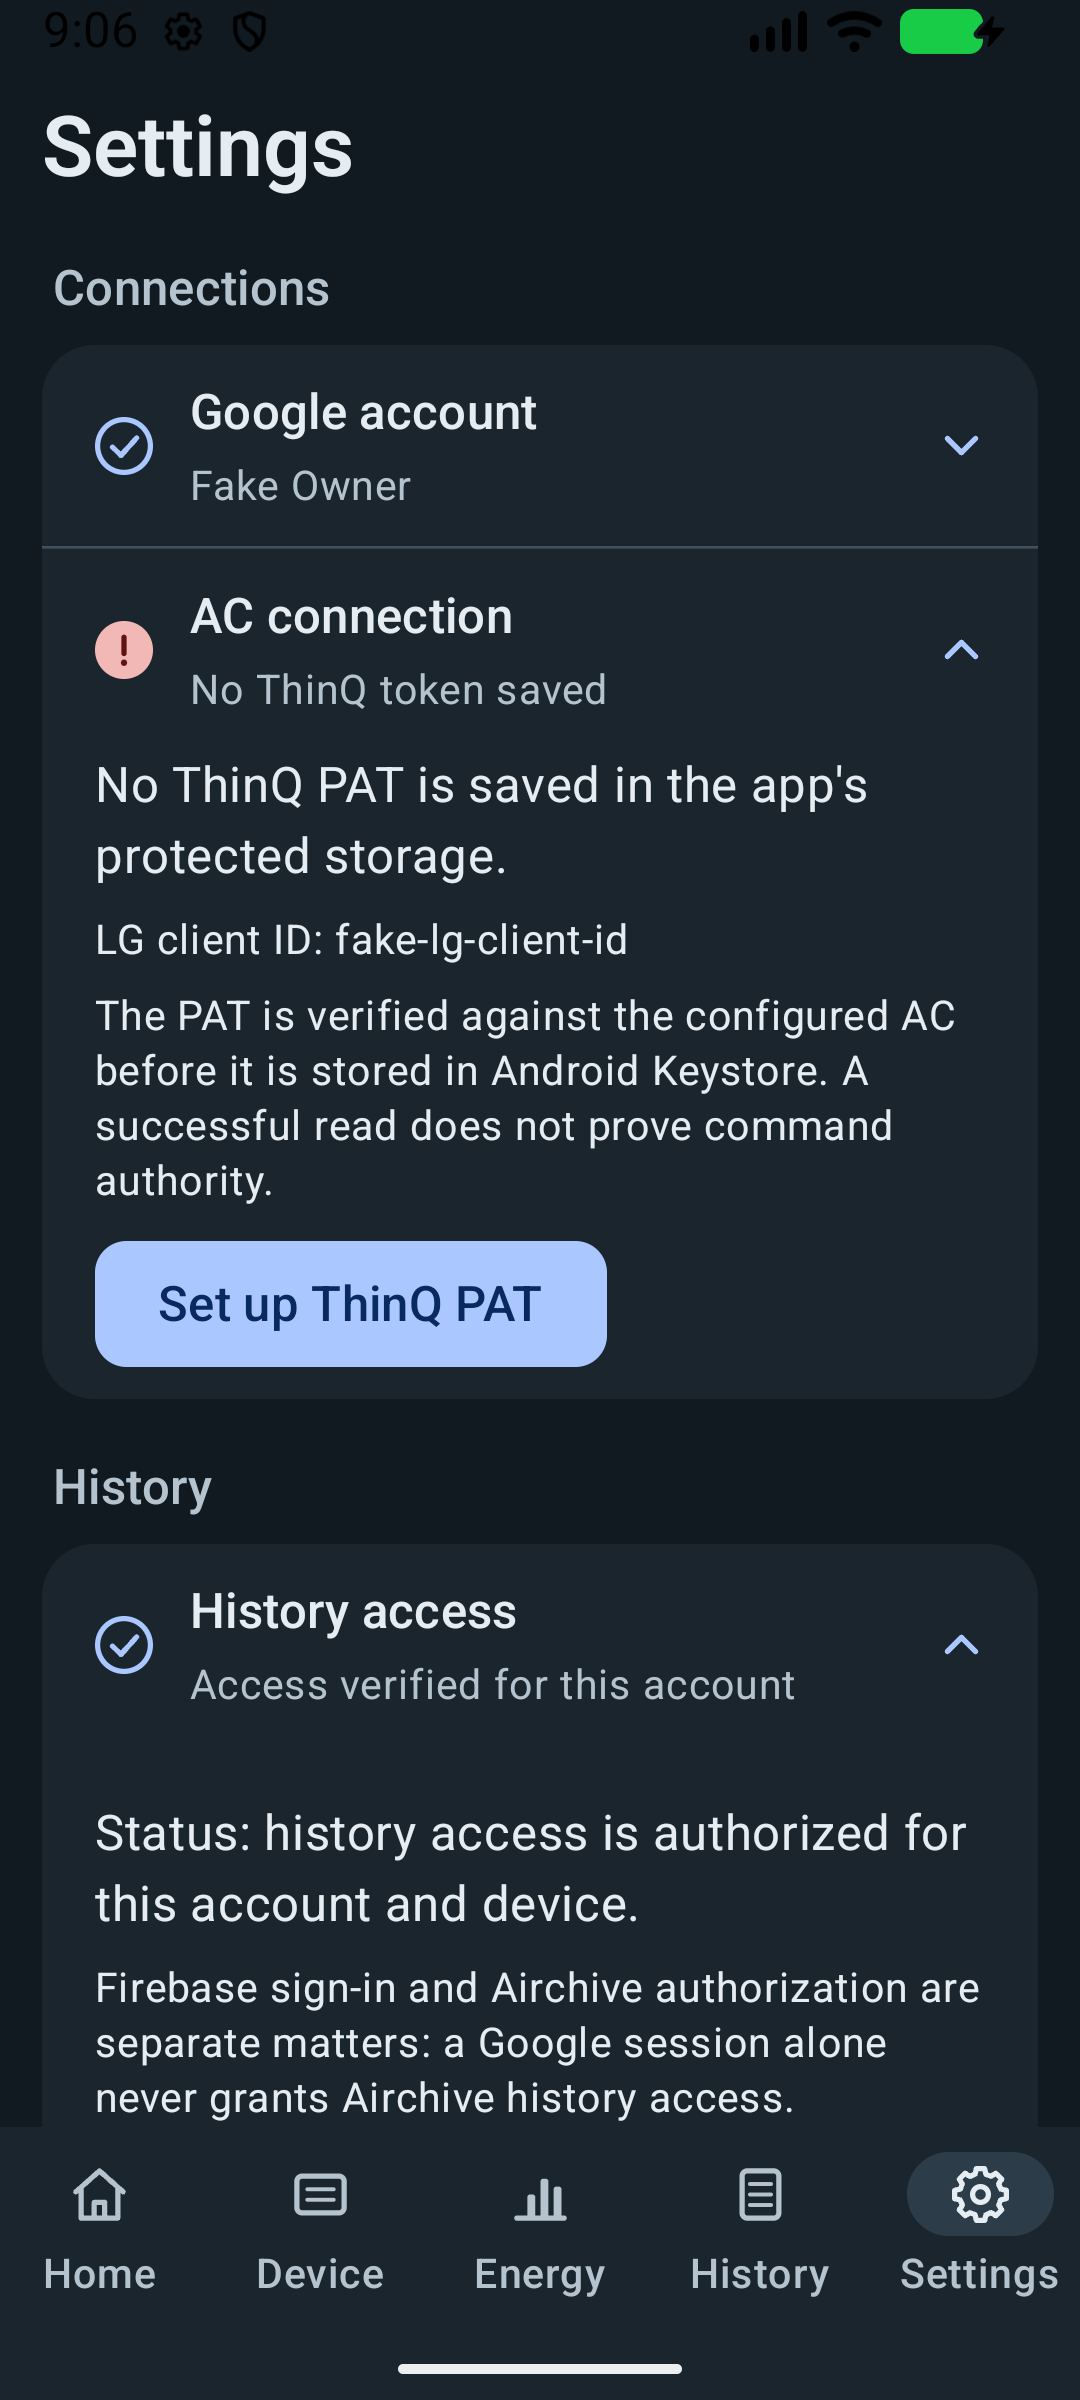
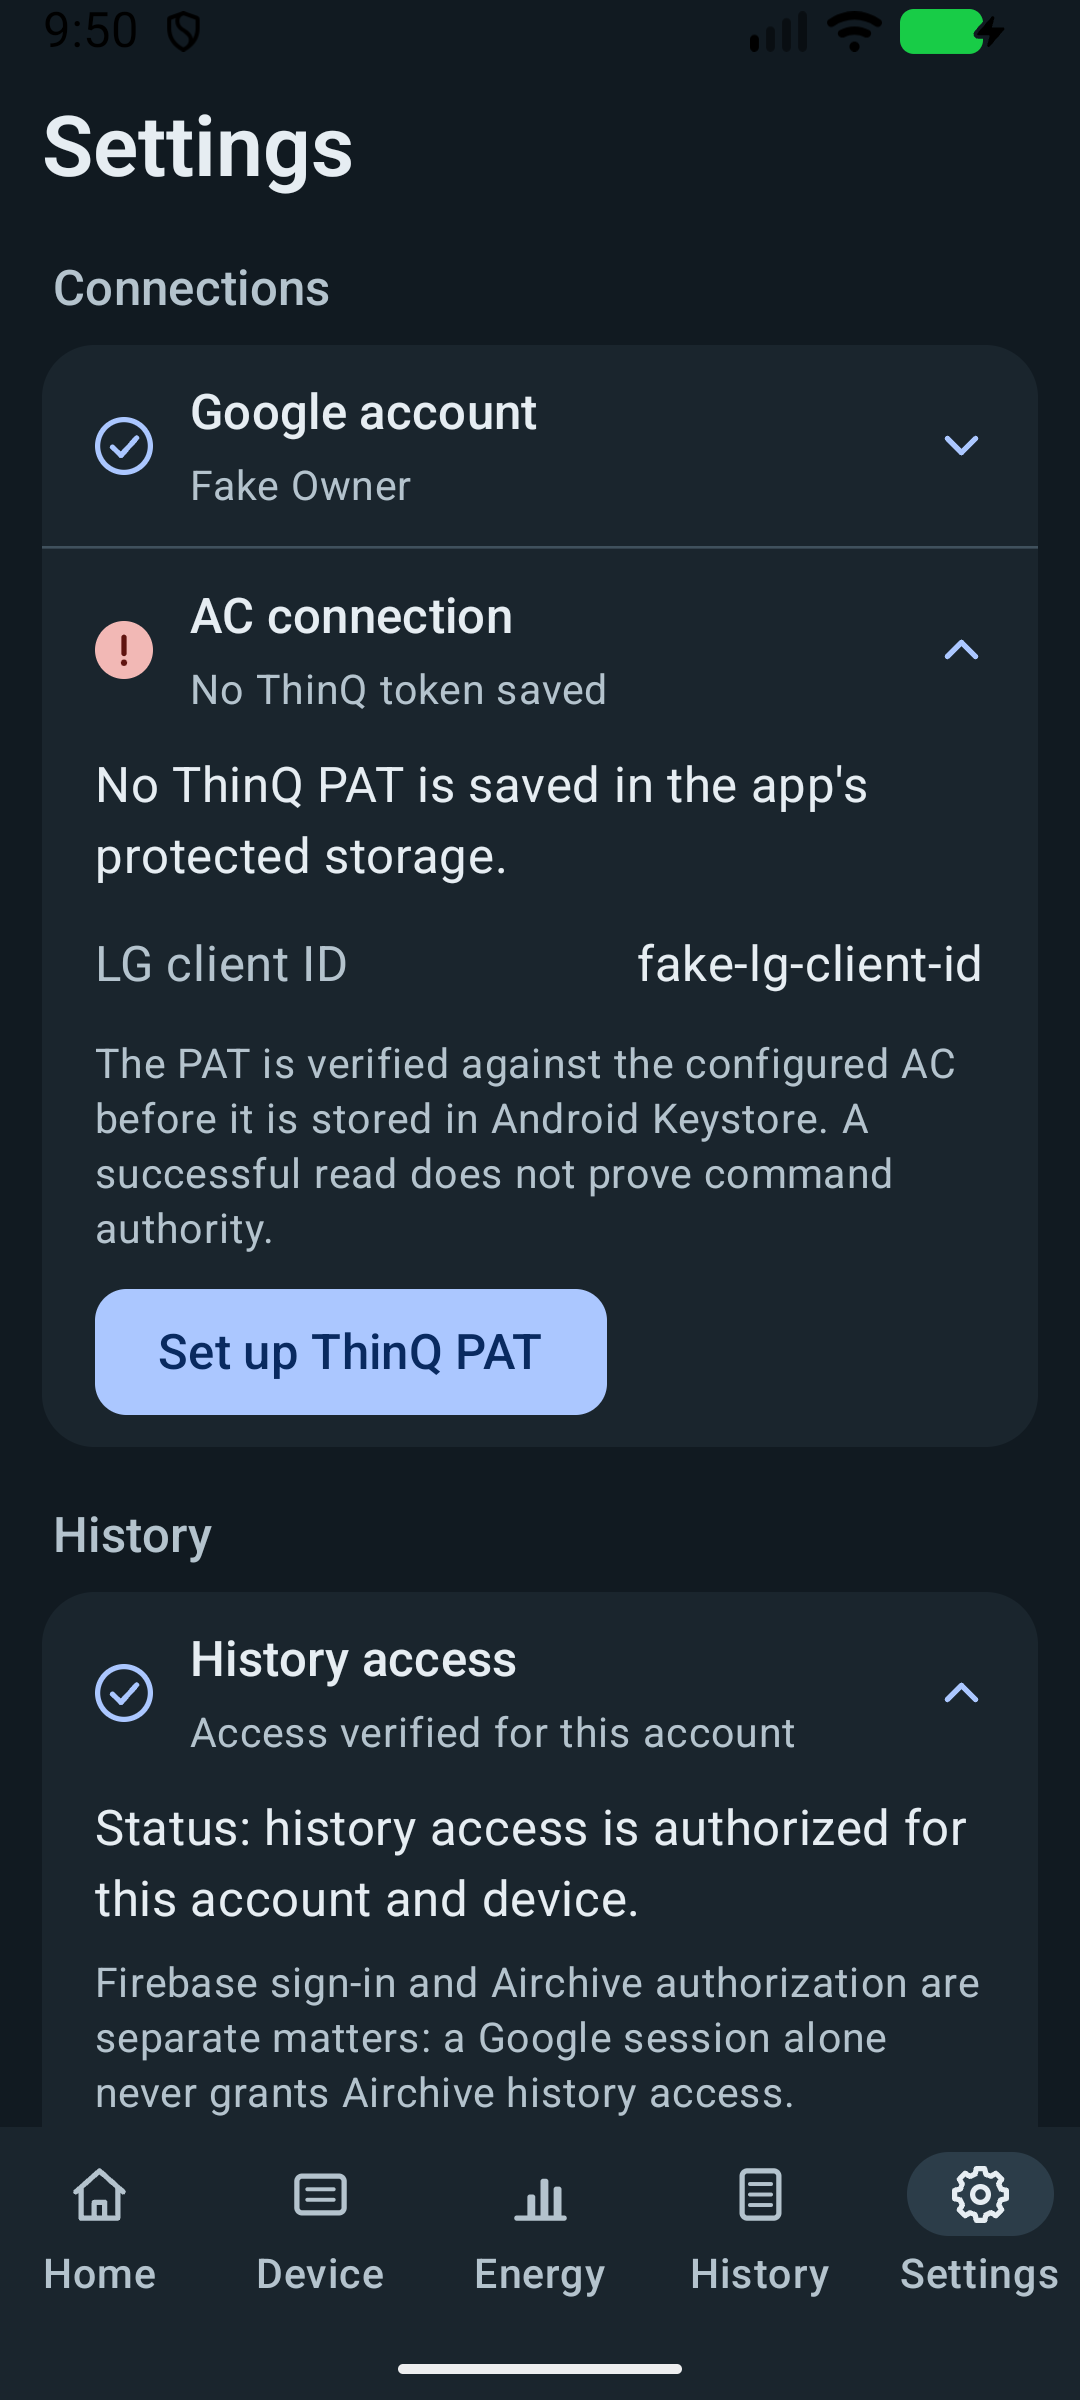
docs: (record nested settings presentation and refresh captures)

diff --git a/docs/verification/settings-layout/README.md b/docs/verification/settings-layout/README.md
@@ -15,27 +15,42 @@ cached count with the age of the last successful sync. The History access row no
 longer repeats its own title as a heading inside, and the filled button is kept
 for a missing or unreadable ThinQ token while replacing a working one is outlined.
 
+Expanded detail follows the same system. Section labels under a row rank below
+the row title. Reference data is label/value fact lines that move a long value
+beneath its label instead of wrapping it into a narrow column. Expanded blocks
+are flush, so dividers no longer stack. Account actions are an aligned, divided
+list with sign-out in the error colour, and the credential form's buttons span
+the field width. Ages read "1 minute" / "1 day" rather than "1 minutes".
+
 ## Validation
 
 - Android debug application and instrumentation APKs assembled successfully.
-- All 440 shared host tests passed; no failures, errors or skips. Five of them
-  are new and cover the status and summary mapping.
+- All 442 shared host tests passed; no failures, errors or skips. Seven of them
+  are new and cover the status, summary, count and age-label mapping.
 - Debug lint passed: zero errors, six existing warnings and one hint.
-- Native emulator checks passed for the grouped layout in Simple/Detailed and
-  light/dark at 1.0 and 1.3 font scales, token-form/dialog preservation across
-  detail changes without port calls, account-switch and cancelled-setup draft
-  clearing, synthetic-PAT absence from diagnostics, the installation-wide
-  interface choice, and confirmed synthetic owner sign-out.
+- Native emulator checks passed on the final build: the grouped layout in
+  Simple/Detailed and light/dark at 1.0 and 1.3 font scales; the new nested
+  walk-through (every Detailed row reached by scrolling at 1.0 and 1.3, plus
+  the credential form and Cancel); token-form/dialog preservation across
+  detail changes without port calls; account-switch and cancelled-setup draft
+  clearing; synthetic-PAT absence from diagnostics; the installation-wide
+  interface choice; and confirmed synthetic owner sign-out.
+- Run as one long batch, two of these timed out waiting for on-screen content;
+  each passed when rerun on its own, so smaller batches were used.
 - `productionRoutesPreserveInstrumentHierarchyAndConfiguredTruth` fails at its
-  Device-route temperature-control wait (`SharedInstrumentUiTest.kt:1391`). It
-  fails identically with this pass's Settings changes stashed, so it is not
-  attributed to them. The full cross-route disclosure suite was not completed.
+  Device-route temperature-control wait, and
+  `narrowPhoneWindowKeepsReadingsImeAndDialogReachable` fails on a Home
+  energy-value check. The first also fails with the status-mark changes stashed;
+  the second fails earlier, in sign-in setup, on the commit before any of this
+  work. Neither is attributed to these changes, and the narrow-width IME and
+  dialog checks were not validated. The full cross-route disclosure suite was not completed.
 
 The native target was the `Medium_Phone_API_37.0` Android emulator. The font
-scale was restored to 1.0 after testing. These checks do not certify TalkBack,
-physical-device behavior, tablets or iOS. The debug shell fixture does not
-switch status-bar icon contrast with its theme; the captures verify app content,
-not production system-bar styling.
+scale was restored to 1.0 and the window size reset after testing. These checks
+do not certify TalkBack, physical-device behavior, tablets or iOS. The debug
+shell fixture does not switch status-bar icon contrast with its theme; the
+captures verify app content, not production system-bar styling. The nested
+captures use the emulator's system dark theme.
 
 ## Captures
 
@@ -43,3 +58,6 @@ not production system-bar styling.
 - [Detailed, light, default text](captures/settings-grouped-detailed-light-scale-1.0.png)
 - [Simple, dark, 1.3× text](captures/settings-grouped-simple-dark-scale-1.3.png)
 - [Detailed, dark, 1.3× text](captures/settings-grouped-detailed-dark-scale-1.3.png)
+- [Nested: account actions and AC connection, 1.0×](captures/settings-nested-account-and-connection-scale-1.0.png)
+- [Nested: sync status and diagnostics, 1.0×](captures/settings-nested-history-and-diagnostics-scale-1.0.png)
+- [Nested: credential form, 1.3×](captures/settings-nested-token-form-scale-1.3.png)

diff --git a/DESIGN.md b/DESIGN.md
@@ -193,7 +193,7 @@ Native Material NavigationBar presents Home, Device, Energy, History and Setting
 
 ### Interface detail and disclosures
 
-Settings groups compact status rows under Connections, History and Preferences. Google account shows the active account and expands to account actions; AC connection shows credential presence and expands to protected-storage details. Status summaries remain visible in both interface modes, and each row leads with a 22dp Canvas status mark whose shape differs by state (check in cobalt for healthy, exclamation on a filled error disc for needs-attention, dash in outline for not-applicable or signed-out); the mark is hidden from accessibility because the row's summary text states the same condition, and it never changes the row's expanded/collapsed semantics. A saved, readable ThinQ token is healthy, a missing or unreadable one needs attention, and History and storage summarizes the cached observation count with the age of the last successful sync. The filled primary button is reserved for a missing or unreadable token; replacing a working one is an outlined button. Credential setup/replacement, unlock recovery, active forms, feedback and confirmation dialogs sit outside resetting disclosures. History owns sync timestamps and diagnostics so the account row does not repeat sync information. Preferences contains the interface-detail selector.
+Settings groups compact status rows under Connections, History and Preferences. Google account shows the active account and expands to account actions; AC connection shows credential presence and expands to protected-storage details. Status summaries remain visible in both interface modes, and each row leads with a 22dp Canvas status mark whose shape differs by state (check in cobalt for healthy, exclamation on a filled error disc for needs-attention, dash in outline for not-applicable or signed-out); the mark is hidden from accessibility because the row's summary text states the same condition, and it never changes the row's expanded/collapsed semantics. A saved, readable ThinQ token is healthy, a missing or unreadable one needs attention, and History and storage summarizes the cached observation count with the age of the last successful sync. The filled primary button is reserved for a missing or unreadable token; replacing a working one is an outlined button. Expanded detail ranks below its row: section labels inside a disclosure (Sync status, Local diagnostics · nonsecret, Collector health) are `labelLarge` in the primary role, never larger than the row title, and a row title is not repeated as a heading inside its own detail. Reference data is a compact label/value fact line that is announced as one item; a short value sits at the line end and a long one (identifiers, timestamps, large text) drops under its label at the start edge rather than wrapping in a narrow column. Expanded blocks are flush and borderless because the row supplies the divider, so no two dividers stack. Account actions are a divided list of aligned 48dp text rows, and the one that ends the session or discards data (sign-out, Remove ThinQ PAT) uses the error role. The credential form's primary and cancel buttons span the field width. Ages use singular units ("1 minute ago"). Credential setup/replacement, unlock recovery, active forms, feedback and confirmation dialogs sit outside resetting disclosures. History owns sync timestamps and diagnostics so the account row does not repeat sync information. Preferences contains the interface-detail selector.
 
 Settings exposes Simple and Detailed through 48dp-minimum native FilterChips. Simple is the default for absent or unrecognized stored values; the Android choice is an installation-wide nonsecret preference, independent of account/history/credential state. Selection changes presentation immediately and does not trigger reads or commands.
 
